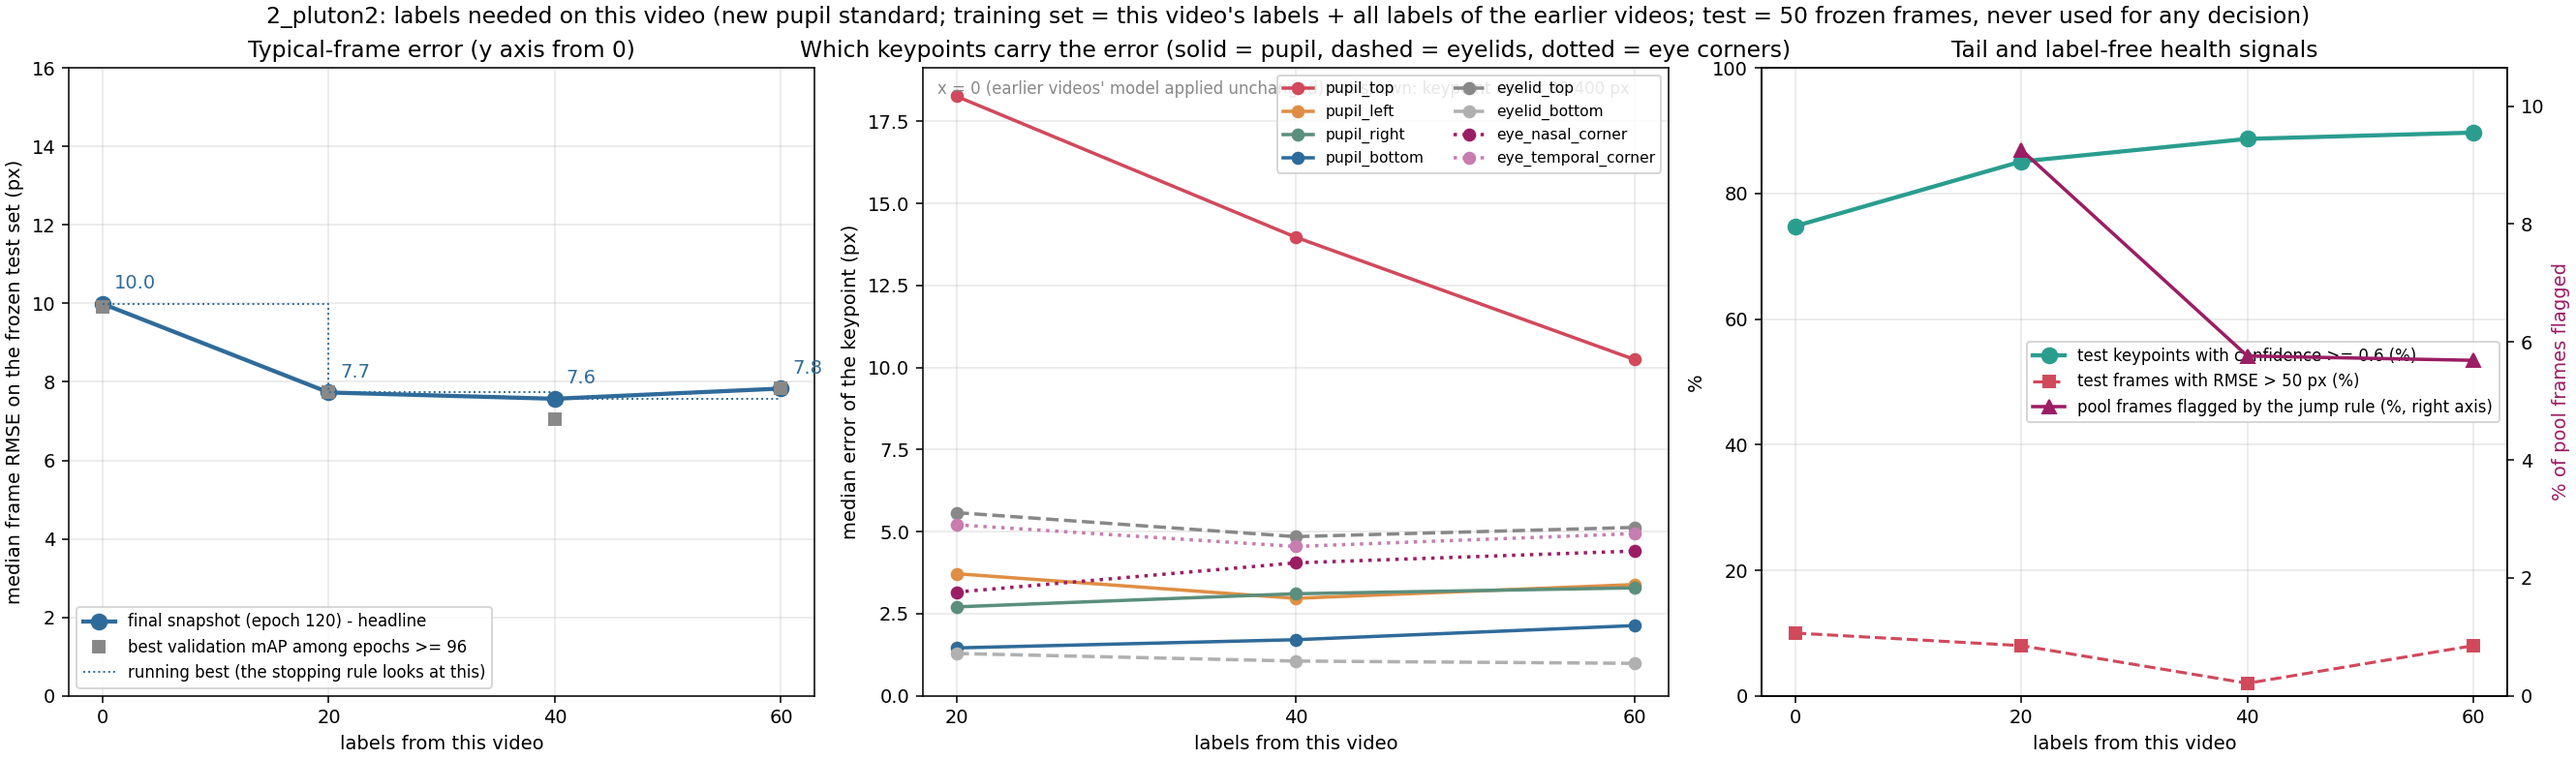
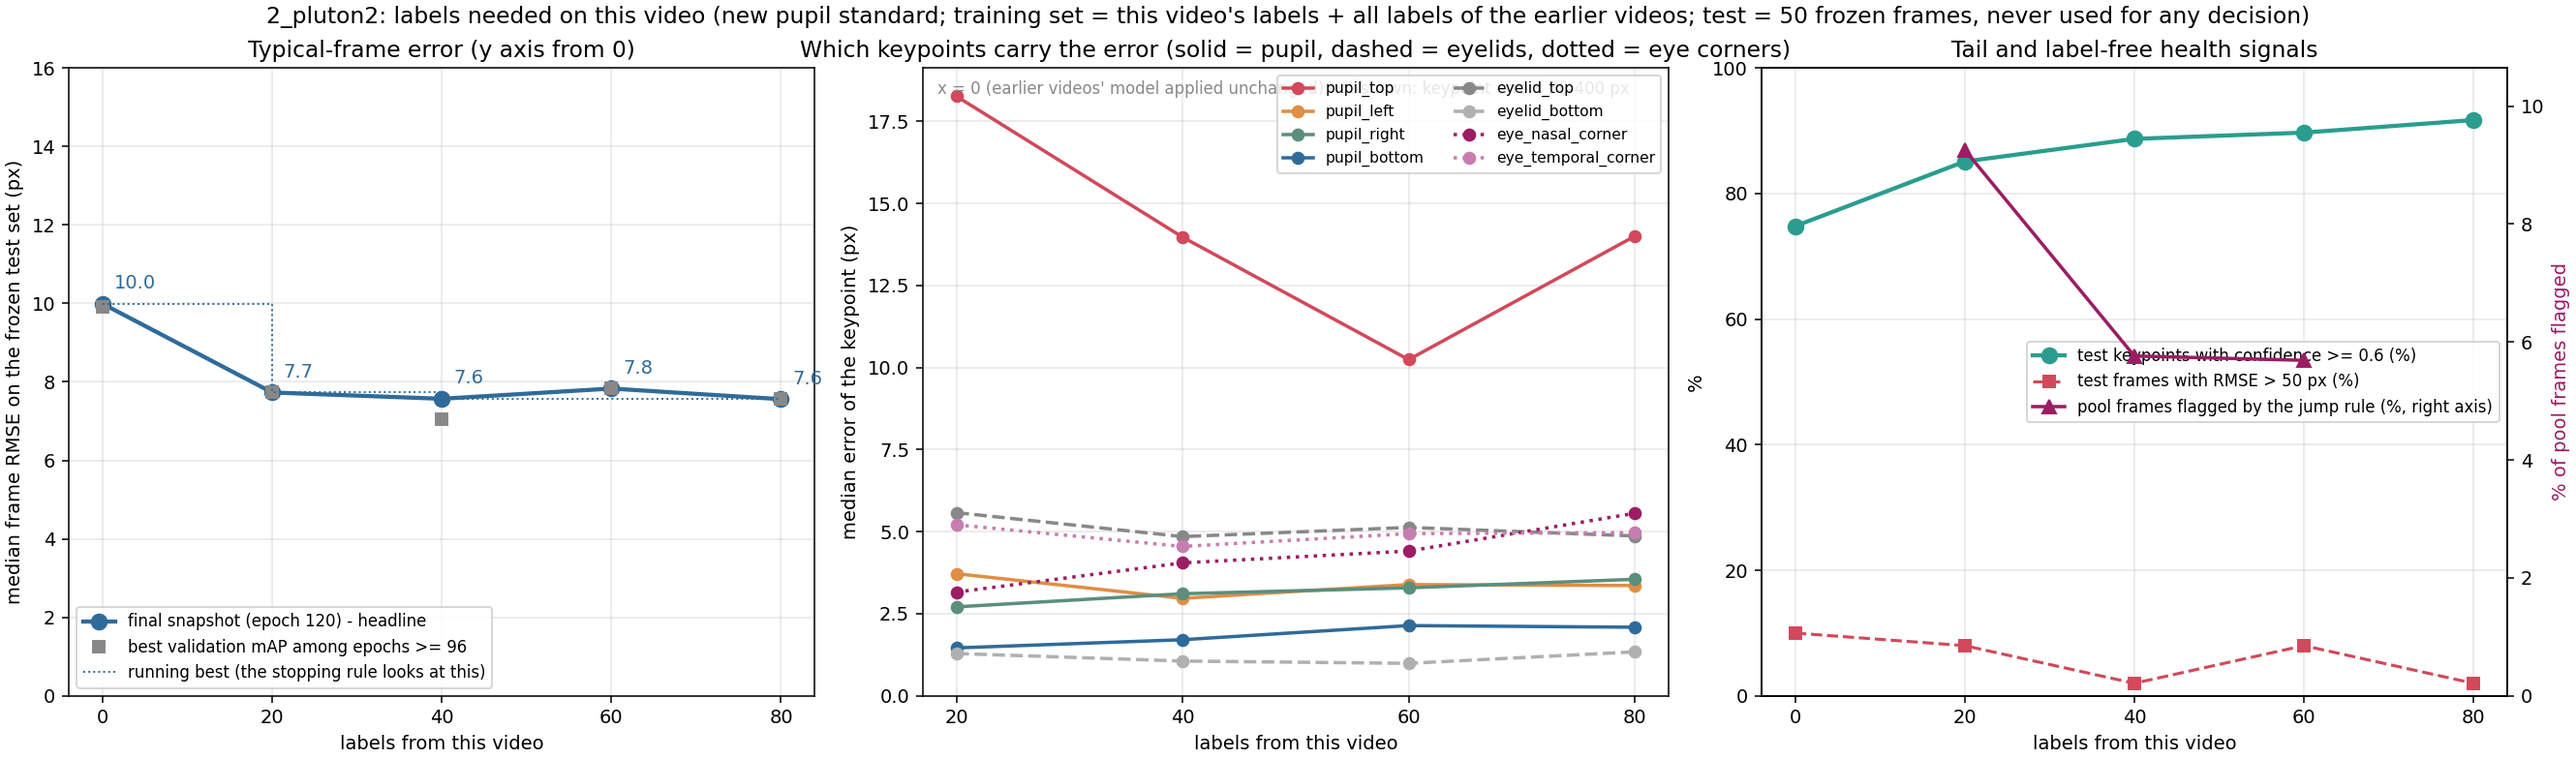
Video 2 (2_pluton2) step 4: 80 labels = 7.56 px (train + score only, no further jump selection)
User decision 2026-09-23: video 2 stops being corrected after 60 labels, but
batch04 had already been labeled, so it was trained (shuffle 324) and scored on
the frozen test set; no whole-video prediction / batch05 selection. Series
9.99 / 7.73 / 7.57 / 7.83 / 7.56 px; p90 19.7 (lowest), 92% confident keypoints.

diff --git a/new_pupil_top_video_scaling/results/README.md b/new_pupil_top_video_scaling/results/README.md
@@ -14,7 +14,7 @@ snapshot with the best validation mAP after the first learning-rate drop (epochs
 |---|---|---|---|---|---|
 | 0 `0_first5minvedio` | mouse A, 5.0 min | 0 | – / 12.93 / 13.00 / 12.04 / 13.07 / 12.29 | **60 labels** | 12.04 px |
 | 1 `1_20251031_Pluto_spont_1` | mouse B, 19.9 min | 100 (all of video 0) | 208.2 / 10.37 / 12.17 / 11.35 / 11.59 / 10.94 | **20 labels** | 10.37 px |
-| 2 `2_pluton2` | mouse B, 19.9 min (2nd recording) | 200 (videos 0 + 1) | 9.99 / 7.73 / 7.57 / 7.83 / – / – | **20 labels** (rule fired at 60; user stopped this video at 60 labels on 2026-09-23, batch04 labeled but not trained) | 7.73 px |
+| 2 `2_pluton2` | mouse B, 19.9 min (2nd recording) | 200 (videos 0 + 1) | 9.99 / 7.73 / 7.57 / 7.83 / 7.56 / – | **20 labels** (rule fired at 60; user stopped selecting at 60 labels on 2026-09-23; batch04 was already labeled and was trained + scored, no further selection) | 7.73 px |
 | 3 `3_pluto3` | mouse B, 19.9 min (3rd recording) | 260 (videos 0 + 1 + 60 of video 2) | 4.43 / 3.40 / – / – / – / – | in progress | |
 
 Notes
